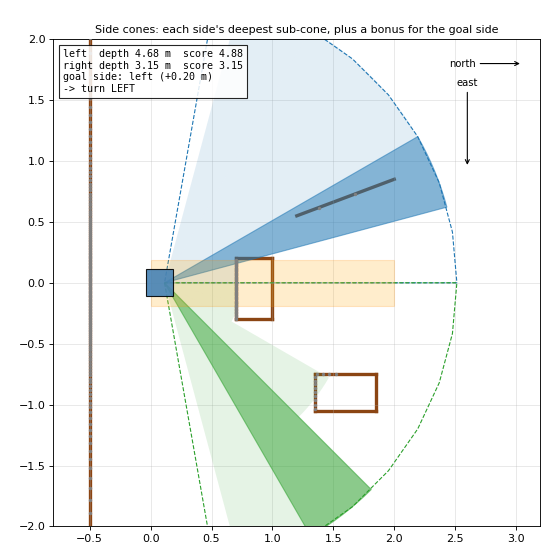
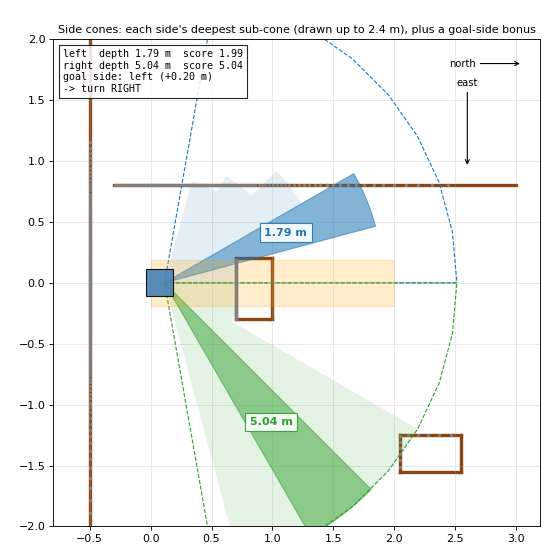
final-cleaning up...

diff --git a/media/fp/make_feature_media.py b/media/fp/make_feature_media.py
@@ -219,13 +219,13 @@ if wanted("corridor_extraction"):
 
 # ---------------------------------------------------------------- 3. side cones and sub-cones
 if wanted("side_cones"):
-    segs = pt.arena(5.0, 5.0) + pt.box(0.85, -0.05, 0.3, 0.5) + [((1.2, 0.55), (2.0, 0.85))] + pt.box(1.6, -0.9, 0.5, 0.3)
+    segs = pt.arena(8.0, 8.0) + pt.box(0.85, -0.05, 0.3, 0.5) + [((-0.3, 0.8), (3.0, 0.8))] + pt.box(2.3, -1.4, 0.5, 0.3)
     scn = {"segments": segs}
     x, y, hd = 0.0, 0.0, 0.0
     msg = scan_at(scn, x, y, hd)
     corridor = {}
     left, right, goal_side = oc.side_cone_scores(msg, hd, oc.TARGET_HEADING_DEG, corridor, oc.NORTH_DEG)
-    fig, ax = base_axes(scn, "Side cones: each side's deepest sub-cone, plus a bonus for the goal side", (-0.8, 3.2, -2.0, 2.0),
+    fig, ax = base_axes(scn, "Side cones: each side's deepest sub-cone (drawn up to 2.4 m), plus a goal-side bonus", (-0.8, 3.2, -2.0, 2.0),
                         size=(7.0, 7.0))
     pts, _ = oc.scan_to_robot_points(msg)
     ax.scatter(pts[:, 0], pts[:, 1], s=4, c="gray", zorder=3)
@@ -239,6 +239,10 @@ if wanted("side_cones"):
         for k, (cdeg, d) in enumerate(zip(side * centres, depths)):
             ax.add_patch(Polygon(pt.cone_polygon(x, y, 0.0, side, min(d, 2.4), cdeg, oc.SIDE_SUBCONE_HALF_WIDTH_DEG), closed=True,
                                  fc=colour, alpha=0.55 if k == best else 0.12, ec=colour if k == best else "none", zorder=2))
+        bdeg = math.radians(side * centres[best])
+        r = min(depths[best], 2.4) * 0.6
+        ax.text(oc.LASER_X_OFFSET + r * math.cos(bdeg), r * math.sin(bdeg), f"{depths[best]:.2f} m", fontsize=10, fontweight="bold",
+                color=colour, ha="center", va="center", bbox=dict(fc="white", ec=colour, alpha=0.9), zorder=8)
     draw_robot(ax, x, y, 0.0, corridor=True)
     win = "LEFT" if left > right else "RIGHT"
     caption(ax, f"left  depth {corridor['cone_left']:.2f} m  score {left:.2f}\n"
